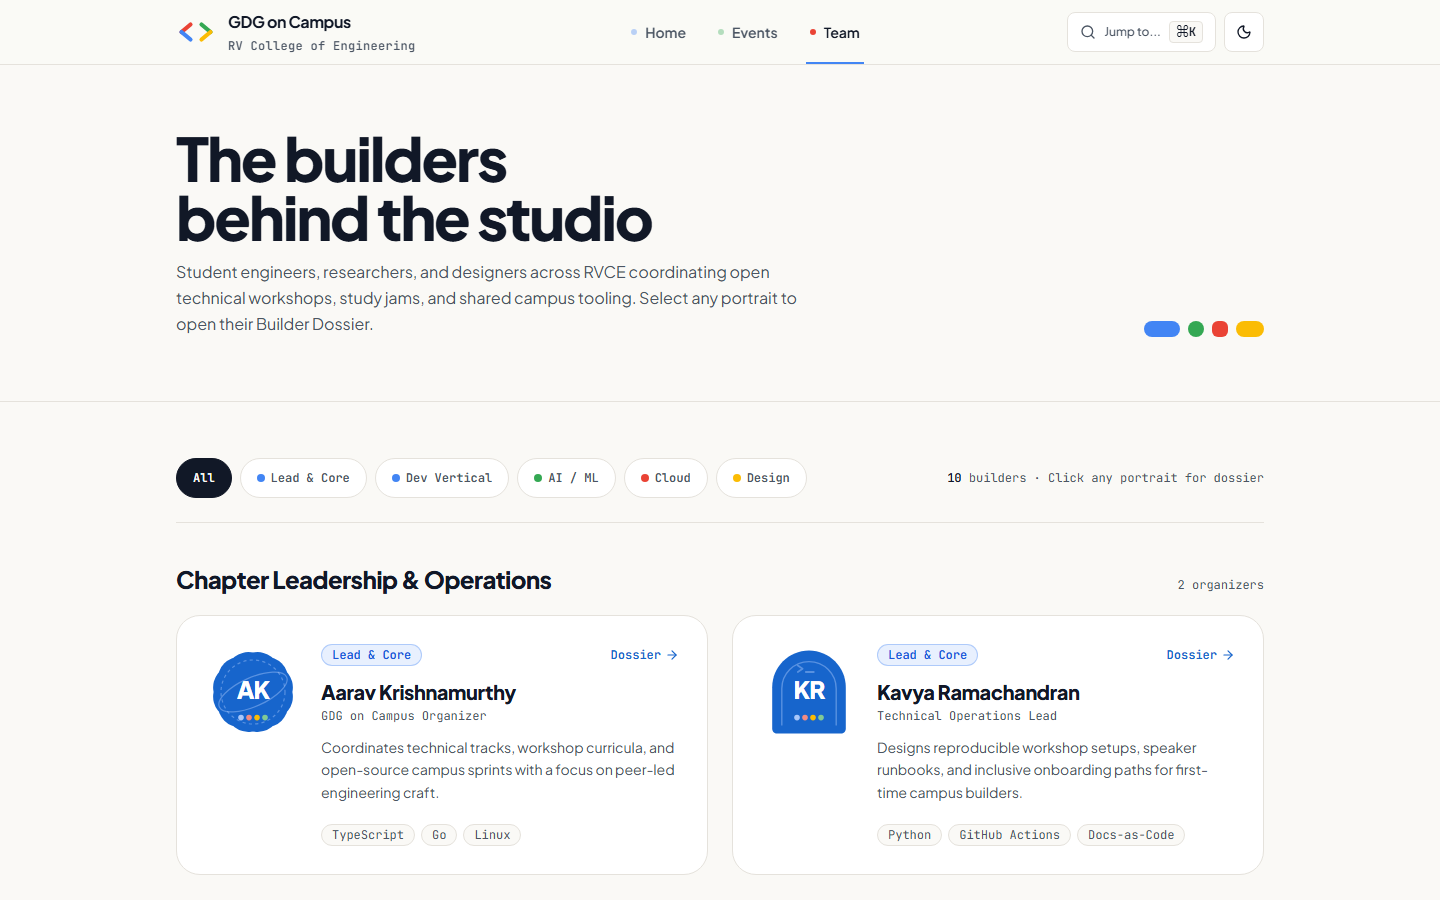
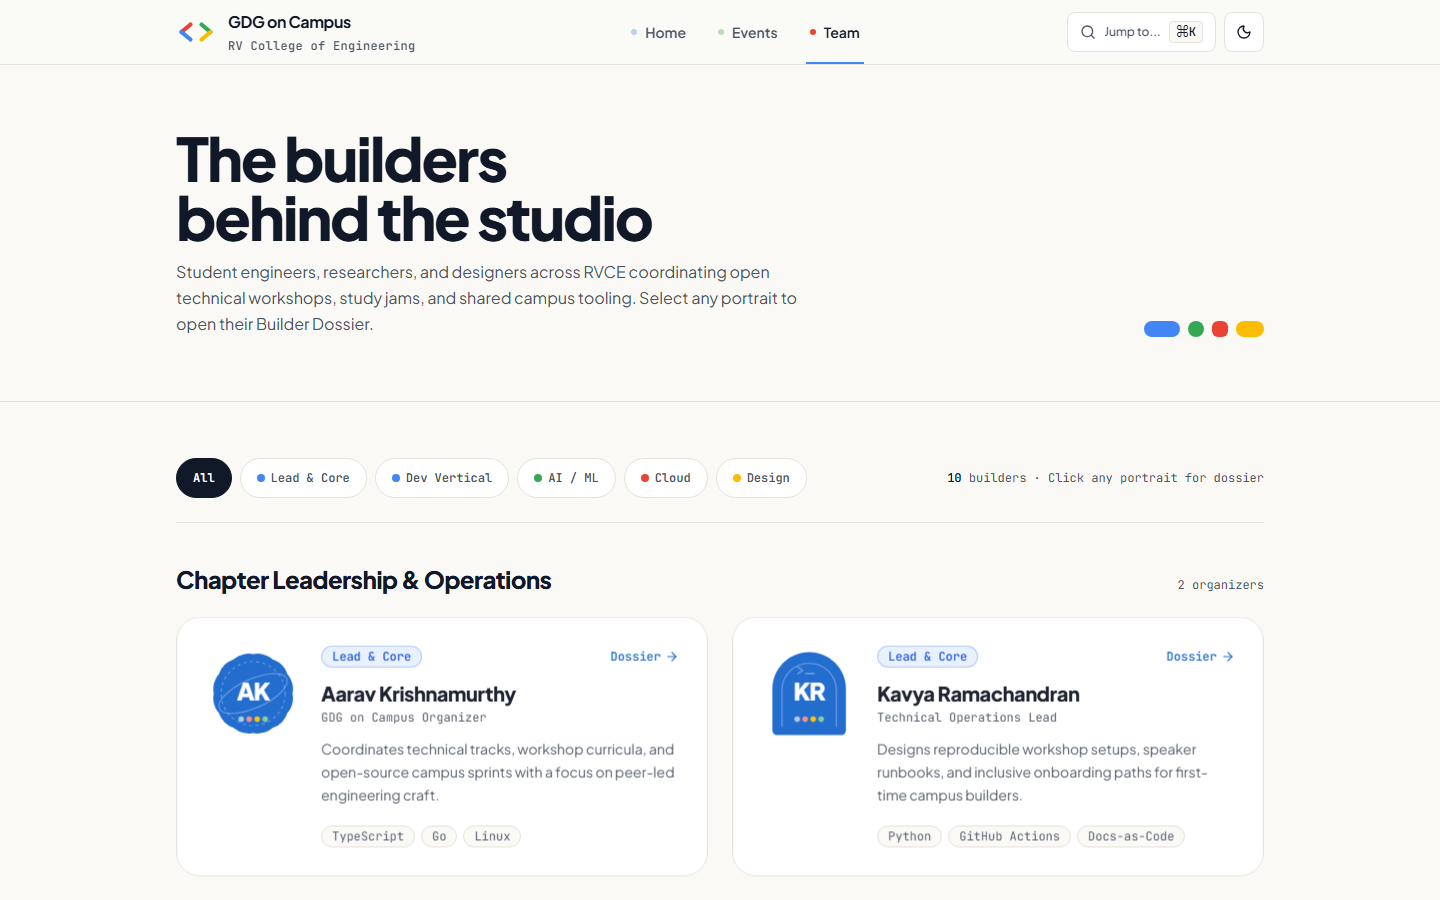
Ui fixes

diff --git a/src/app/globals.css b/src/app/globals.css
@@ -213,6 +213,69 @@ input[type="search"]::-webkit-search-decoration {
   transform: translate3d(2px, -3px, 0) rotate(3deg);
 }
 
+/* Compositor-only CSS Scroll-Driven Animations (progressive enhancement) */
+.gdg-scroll-progress {
+  transform: scaleX(0);
+  transform-origin: left;
+  opacity: 0;
+}
+
+@keyframes gdg-scroll-progress-scale {
+  from {
+    transform: scaleX(0);
+  }
+  to {
+    transform: scaleX(1);
+  }
+}
+
+@keyframes gdg-scroll-reveal {
+  from {
+    opacity: 0;
+    transform: translate3d(0, 28px, 0) scale(0.985);
+  }
+  to {
+    opacity: 1;
+    transform: translate3d(0, 0, 0) scale(1);
+  }
+}
+
+@keyframes gdg-poster-date-parallax {
+  from {
+    transform: translate3d(0, -10px, 0);
+  }
+  to {
+    transform: translate3d(0, 10px, 0);
+  }
+}
+
+@supports (animation-timeline: view()) {
+  @media (prefers-reduced-motion: no-preference) {
+    .gdg-scroll-progress {
+      opacity: 1;
+      transform-origin: left;
+      animation: gdg-scroll-progress-scale linear both;
+      animation-timeline: scroll(root);
+      will-change: transform;
+    }
+
+    .gdg-reveal {
+      animation: gdg-scroll-reveal linear both;
+      animation-timeline: view();
+      animation-range: entry 0% cover 26%;
+      animation-fill-mode: both;
+      will-change: transform, opacity;
+    }
+
+    .gdg-poster-parallax {
+      animation: gdg-poster-date-parallax linear both;
+      animation-timeline: view();
+      animation-range: cover 0% cover 100%;
+      will-change: transform;
+    }
+  }
+}
+
 @media (prefers-reduced-motion: reduce) {
   html {
     scroll-behavior: auto;
@@ -235,8 +298,25 @@ input[type="search"]::-webkit-search-decoration {
   .animate-gdg-spin-3d,
   .animate-gdg-spin-reverse-3d,
   .animate-gdg-float-3d,
-  .animate-gdg-drawer-in {
+  .animate-gdg-drawer-in,
+  .gdg-scroll-progress,
+  .gdg-reveal,
+  .gdg-poster-parallax {
     animation: none !important;
     will-change: auto;
+  }
+
+  .gdg-scroll-progress {
+    opacity: 0 !important;
+    transform: scaleX(0) !important;
+  }
+
+  .gdg-reveal {
+    opacity: 1 !important;
+    transform: none !important;
+  }
+
+  .gdg-poster-parallax {
+    transform: none !important;
   }
 }

diff --git a/src/components/team/TeamDirectory.tsx b/src/components/team/TeamDirectory.tsx
@@ -222,7 +222,7 @@ export function TeamDirectory({ members }: TeamDirectoryProps) {
                     key={member.id}
                     type="button"
                     onClick={() => handleOpenBuilder(member)}
-                    className={`group flex flex-col gap-5 rounded-3xl border border-hairline bg-surface p-6 text-left transition-spring hover:-translate-y-1.5 focus-visible:outline-2 focus-visible:outline-offset-2 focus-visible:outline-[#4285F4] sm:flex-row sm:items-start sm:p-7 ${accent.borderHover}`}
+                    className={`gdg-reveal group flex flex-col gap-5 rounded-3xl border border-hairline bg-surface p-6 text-left transition-spring hover:-translate-y-1.5 focus-visible:outline-2 focus-visible:outline-offset-2 focus-visible:outline-[#4285F4] sm:flex-row sm:items-start sm:p-7 ${accent.borderHover}`}
                   >
                     <div className="transition-spring group-hover:-rotate-3">
                       <BuilderPortrait
@@ -300,7 +300,7 @@ export function TeamDirectory({ members }: TeamDirectoryProps) {
                     key={member.id}
                     type="button"
                     onClick={() => handleOpenBuilder(member)}
-                    className={`group flex flex-col rounded-3xl border border-hairline bg-surface p-5 text-left transition-spring hover:-translate-y-1.5 focus-visible:outline-2 focus-visible:outline-offset-2 focus-visible:outline-[#4285F4] ${accent.borderHover}`}
+                    className={`gdg-reveal group flex flex-col rounded-3xl border border-hairline bg-surface p-5 text-left transition-spring hover:-translate-y-1.5 focus-visible:outline-2 focus-visible:outline-offset-2 focus-visible:outline-[#4285F4] ${accent.borderHover}`}
                   >
                     <div className="flex items-start justify-between gap-3">
                       <div className="transition-spring group-hover:-rotate-3">

diff --git a/src/components/events/EventPoster.tsx b/src/components/events/EventPoster.tsx
@@ -225,7 +225,7 @@ export function EventPoster({
               fill={theme.shapeAccent}
               fillOpacity="0.28"
             />
-            <circle cx="420" cy="44" r="18" fill={theme.shapeSecondary} />
+            <circle cx="368" cy="58" r="15" fill={theme.shapeSecondary} />
           </>
         )}
 
@@ -279,8 +279,15 @@ export function EventPoster({
             />
           </>
         )}
+      </svg>
 
-        {/* Oversized Expressive Poster Date Numeral Watermark */}
+      {/* Scroll-Driven Parallax Layer: Oversized Expressive Date Numeral Watermark */}
+      <svg
+        aria-hidden="true"
+        viewBox="0 0 480 260"
+        preserveAspectRatio="xMidYMid slice"
+        className="gdg-poster-parallax pointer-events-none absolute inset-0 h-full w-full"
+      >
         <text
           x="456"
           y="236"
@@ -324,8 +331,14 @@ export function EventPoster({
         </div>
 
         <span
-          className="font-mono text-xs font-semibold"
-          style={{ color: theme.mutedInk }}
+          className="relative z-10 inline-flex shrink-0 items-center rounded-full px-2.5 py-1 font-mono text-xs font-semibold"
+          style={{
+            backgroundColor:
+              event.track === "Android"
+                ? "rgba(17, 24, 39, 0.12)"
+                : "rgba(17, 24, 39, 0.32)",
+            color: theme.ink,
+          }}
         >
           {event.mode}
         </span>

diff --git a/src/components/events/EventsExplorer.tsx b/src/components/events/EventsExplorer.tsx
@@ -359,7 +359,7 @@ export function EventsExplorer({ events }: EventsExplorerProps) {
                 const styles = getTrackStyles(event.track);
                 const isUpcoming = event.status === "upcoming";
                 return (
-                  <li key={event.slug}>
+                  <li key={event.slug} className="gdg-reveal">
                     <Link
                       href={`/events/${event.slug}`}
                       className="group grid grid-cols-1 gap-3 py-5 transition-colors hover:bg-surface-muted/50 focus-visible:outline-2 focus-visible:outline-offset-2 focus-visible:outline-[#4285F4] md:grid-cols-12 md:items-center md:gap-4 md:px-3"

diff --git a/src/components/events/EventCard.tsx b/src/components/events/EventCard.tsx
@@ -14,7 +14,7 @@ export function EventCard({ event }: EventCardProps) {
 
   return (
     <article
-      className={`group relative flex flex-col overflow-hidden rounded-3xl border border-hairline bg-surface transition-spring hover:-translate-y-1.5 ${trackStyles.borderHover}`}
+      className={`gdg-reveal group relative flex flex-col overflow-hidden rounded-3xl border border-hairline bg-surface transition-spring hover:-translate-y-1.5 ${trackStyles.borderHover}`}
     >
       {/* Generative Color-Blocked Campus Event Poster */}
       <EventPoster event={event} size="card" />

diff --git a/src/components/layout/Navbar.tsx b/src/components/layout/Navbar.tsx
@@ -181,6 +181,17 @@ export function Navbar() {
           </nav>
         </div>
       )}
+
+      {/* Compositor-only 2px four-color scroll progress line */}
+      <div
+        aria-hidden="true"
+        className="gdg-scroll-progress pointer-events-none absolute right-0 -bottom-px left-0 grid h-[2px] w-full grid-cols-4"
+      >
+        <span className="bg-[#4285F4]" />
+        <span className="bg-[#EA4335]" />
+        <span className="bg-[#FBBC04]" />
+        <span className="bg-[#34A853]" />
+      </div>
     </header>
   );
 }

diff --git a/src/components/home/LatestRecap.tsx b/src/components/home/LatestRecap.tsx
@@ -31,7 +31,7 @@ export function LatestRecap() {
       aria-labelledby="latest-recap-heading"
       className="border-b border-hairline bg-surface-muted/45 py-16 sm:py-24"
     >
-      <div className="mx-auto max-w-6xl px-4 sm:px-6 lg:px-8">
+      <div className="gdg-reveal mx-auto max-w-6xl px-4 sm:px-6 lg:px-8">
         <div className="grid grid-cols-1 items-start gap-10 lg:grid-cols-12 lg:gap-12">
           {/* Left: Magazine Editorial Field Note (7 cols) */}
           <div className="lg:col-span-7">

diff --git a/src/components/home/FeaturedEvents.tsx b/src/components/home/FeaturedEvents.tsx
@@ -22,7 +22,7 @@ export function FeaturedEvents() {
       aria-labelledby="featured-events-heading"
       className="border-b border-hairline bg-canvas py-16 sm:py-24"
     >
-      <div className="mx-auto max-w-6xl px-4 sm:px-6 lg:px-8">
+      <div className="gdg-reveal mx-auto max-w-6xl px-4 sm:px-6 lg:px-8">
         {/* Editorial Section Header */}
         <div className="flex flex-col gap-4 border-b border-hairline pb-6 sm:flex-row sm:items-end sm:justify-between">
           <div>

diff --git a/src/components/home/PillarsGrid.tsx b/src/components/home/PillarsGrid.tsx
@@ -51,7 +51,7 @@ export function PillarsGrid() {
       aria-labelledby="disciplines-heading"
       className="border-b border-hairline bg-[#111827] py-16 text-[#F8FAFC] dark:bg-[#161D2B] sm:py-24"
     >
-      <div className="mx-auto max-w-6xl px-4 sm:px-6 lg:px-8">
+      <div className="gdg-reveal mx-auto max-w-6xl px-4 sm:px-6 lg:px-8">
         <div className="flex flex-col gap-4 lg:flex-row lg:items-end lg:justify-between">
           <div className="max-w-2xl">
             <h2

diff --git a/src/components/home/CommunityLinks.tsx b/src/components/home/CommunityLinks.tsx
@@ -37,7 +37,7 @@ export function CommunityLinks() {
       aria-labelledby="community-links-heading"
       className="bg-canvas py-16 sm:py-24"
     >
-      <div className="mx-auto max-w-6xl px-4 sm:px-6 lg:px-8">
+      <div className="gdg-reveal mx-auto max-w-6xl px-4 sm:px-6 lg:px-8">
         <div className="grid grid-cols-1 gap-10 lg:grid-cols-12 lg:gap-12">
           {/* Left Editorial Column (4 cols) */}
           <div className="lg:col-span-4">

diff --git a/src/components/events/EventAgenda.tsx b/src/components/events/EventAgenda.tsx
@@ -73,7 +73,7 @@ export function EventAgenda({ agenda, dotClass }: EventAgendaProps) {
           const panelId = `agenda-panel-${idx}`;
 
           return (
-            <li key={`${slot.time}-${slot.title}`}>
+            <li key={`${slot.time}-${slot.title}`} className="gdg-reveal">
               <button
                 type="button"
                 aria-expanded={isOpen}
